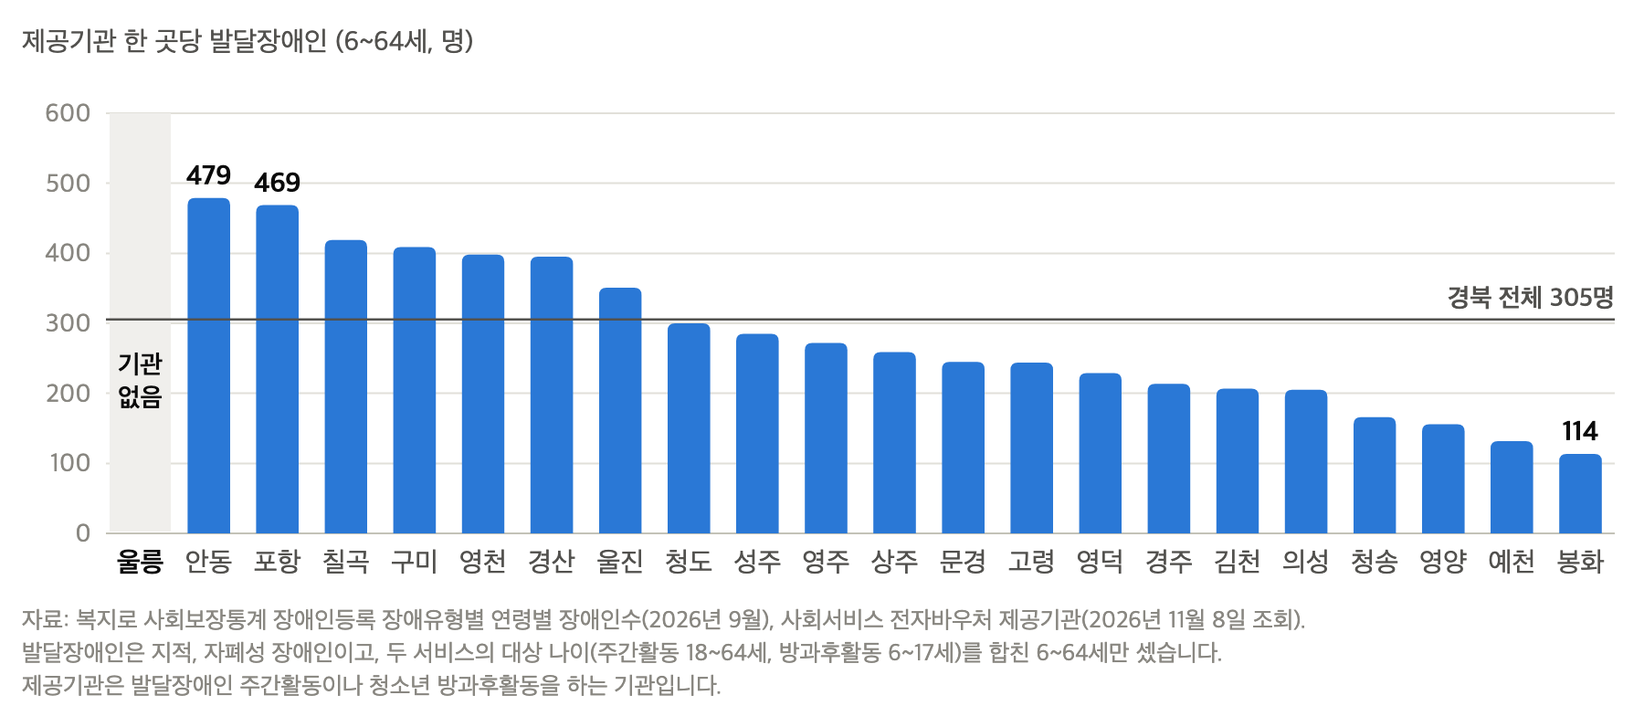
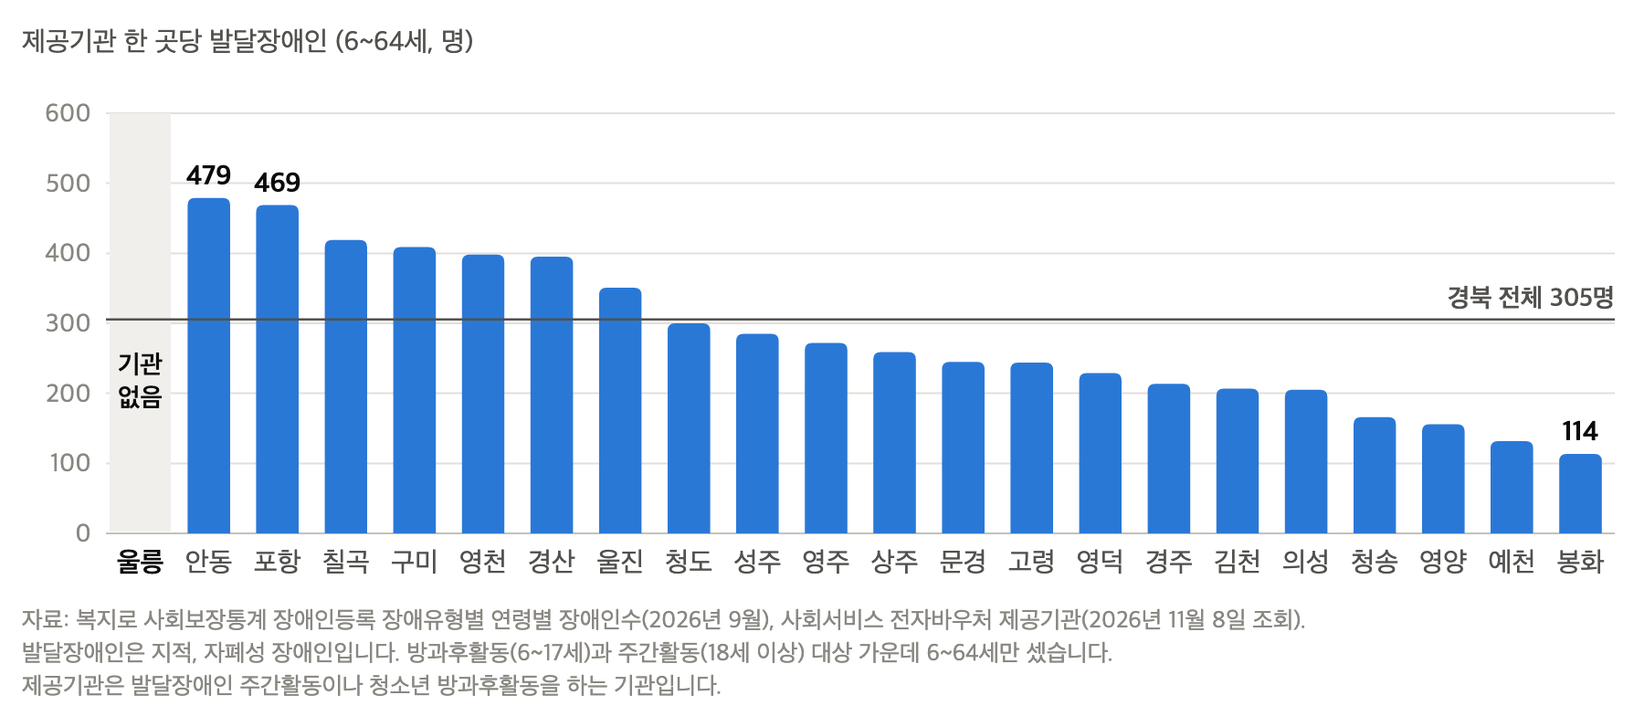
그림 1 각주, 그림 2 라벨, README 용어 고침
- 그림 1 각주: 주간활동 대상 나이를 '18~64세' 에서 '18세 이상' 으로 고쳤다.
  65세 연령 상한은 폐지됐고, 나눌 수는 그대로 6~64세다
  (65세 이상은 수요를 부풀리지 않으려고 뺐다).
- 그림 2 와 README: '장애인 주간보호시설' 을 사회복지시설정보서비스 API 의
  종류 이름 '장애인 주간이용시설' 로 바꿨다.
- 숫자와 계산은 바뀌지 않았다 (그림 3 과 out/tables 는 그대로).

Changed region(s): [[0.1867, 0.8744, 0.7467, 0.9347]]

diff --git a/out/fig/html/fig2_system.html b/out/fig/html/fig2_system.html
@@ -1,1 +1,1 @@
-<!doctype html><html lang="ko"><head><meta charset="utf-8"><title>fig2_system</title><style>html,body{margin:0;padding:0;background:#ffffff}svg{display:block}</style></head><body><svg xmlns="http://www.w3.org/2000/svg" width="900" height="414" viewBox="0 0 900 414" font-family='"Apple SD Gothic Neo", "Malgun Gothic", sans-serif' style="font-variant-numeric: tabular-nums"><rect width="900" height="414" fill="#ffffff"/><g transform="translate(12,12)"><defs><marker id="head" viewBox="0 0 10 10" refX="8" refY="5" markerWidth="7" markerHeight="7" orient="auto-start-reverse"><path d="M0,0 L10,5 L0,10 Z" fill="#52514e"/></marker></defs><text x="0.0" y="18.0" font-size="16" fill="#0b0b0b" text-anchor="start" font-weight="700" >공개 사회보장 데이터</text><rect x="0.5" y="42" width="196" height="346" rx="8" fill="#f7f7f5" stroke="#e1e0d9"/><text x="14.0" y="76.0" font-size="15" fill="#0b0b0b" text-anchor="start" font-weight="700" >수요</text><text x="14.0" y="103.0" font-size="14.5" fill="#52514e" text-anchor="start" font-weight="400" >연령별 등록장애인 (복지로)</text><text x="14.0" y="130.0" font-size="14.5" fill="#52514e" text-anchor="start" font-weight="400" >시군구별 수급권자</text><text x="14.0" y="157.0" font-size="14.5" fill="#52514e" text-anchor="start" font-weight="400" >주민등록 인구</text><text x="14.0" y="210.0" font-size="15" fill="#0b0b0b" text-anchor="start" font-weight="700" >공급</text><text x="14.0" y="237.0" font-size="14.5" fill="#52514e" text-anchor="start" font-weight="400" >지자체 복지사업 (API)</text><text x="14.0" y="264.0" font-size="14.5" fill="#52514e" text-anchor="start" font-weight="400" >사회서비스 제공기관 (API)</text><text x="14.0" y="291.0" font-size="14.5" fill="#52514e" text-anchor="start" font-weight="400" >사회복지시설 (API)</text><text x="14.0" y="318.0" font-size="14.5" fill="#52514e" text-anchor="start" font-weight="400" >장애인 주간보호시설</text><text x="14.0" y="372.0" font-size="13.5" fill="#0b0b0b" text-anchor="start" font-weight="600" >시군구 단위로 결합</text><text x="230.0" y="18.0" font-size="16" fill="#0b0b0b" text-anchor="start" font-weight="700" >AI 분석 4단계</text><rect x="230.5" y="42.0" width="282" height="76.0" rx="8" fill="#f7f7f5" stroke="#e1e0d9"/><circle cx="258" cy="80.0" r="14" fill="#2a78d6"/><text x="258.0" y="85.5" font-size="15" fill="#ffffff" text-anchor="middle" font-weight="700" >1</text><text x="284.0" y="75.0" font-size="16" fill="#0b0b0b" text-anchor="start" font-weight="700" >사업 정리</text><text x="284.0" y="98.0" font-size="13.5" fill="#52514e" text-anchor="start" font-weight="400" >LLM 정보 추출, 같은 기관 묶기</text><line x1="258" y1="119.0" x2="258" y2="131.0" stroke="#52514e" stroke-width="2" marker-end="url(#head)"/><rect x="230.5" y="132.0" width="282" height="76.0" rx="8" fill="#f7f7f5" stroke="#e1e0d9"/><circle cx="258" cy="170.0" r="14" fill="#2a78d6"/><text x="258.0" y="175.5" font-size="15" fill="#ffffff" text-anchor="middle" font-weight="700" >2</text><text x="284.0" y="165.0" font-size="16" fill="#0b0b0b" text-anchor="start" font-weight="700" >쌍둥이 시군구</text><text x="284.0" y="188.0" font-size="13.5" fill="#52514e" text-anchor="start" font-weight="400" >인구, 나이 구조, 수급률 7개 지표</text><line x1="258" y1="209.0" x2="258" y2="221.0" stroke="#52514e" stroke-width="2" marker-end="url(#head)"/><rect x="230.5" y="222.0" width="282" height="76.0" rx="8" fill="#f7f7f5" stroke="#e1e0d9"/><circle cx="258" cy="260.0" r="14" fill="#2a78d6"/><text x="258.0" y="265.5" font-size="15" fill="#ffffff" text-anchor="middle" font-weight="700" >3</text><text x="284.0" y="255.0" font-size="16" fill="#0b0b0b" text-anchor="start" font-weight="700" >공백 점수</text><text x="284.0" y="278.0" font-size="13.5" fill="#52514e" text-anchor="start" font-weight="400" >수요 대비 공급을 쌍둥이와 비교</text><line x1="258" y1="299.0" x2="258" y2="311.0" stroke="#52514e" stroke-width="2" marker-end="url(#head)"/><rect x="230.5" y="312.0" width="282" height="76.0" rx="8" fill="#f7f7f5" stroke="#e1e0d9"/><circle cx="258" cy="350.0" r="14" fill="#2a78d6"/><text x="258.0" y="355.5" font-size="15" fill="#ffffff" text-anchor="middle" font-weight="700" >4</text><text x="284.0" y="345.0" font-size="16" fill="#0b0b0b" text-anchor="start" font-weight="700" >사업 설계 에이전트</text><text x="284.0" y="368.0" font-size="13.5" fill="#52514e" text-anchor="start" font-weight="400" >RAG, 근거 붙은 사업계획 초안</text><line x1="200" y1="215.0" x2="224" y2="215.0" stroke="#52514e" stroke-width="2" marker-end="url(#head)"/><line x1="516" y1="215.0" x2="540" y2="215.0" stroke="#52514e" stroke-width="2" marker-end="url(#head)"/><text x="548.0" y="18.0" font-size="16" fill="#0b0b0b" text-anchor="start" font-weight="700" >담당자 화면 (경북 시범 결과)</text><rect x="614" y="42" width="29" height="29" rx="4" fill="#86b6ef"/><text x="628.5" y="61.0" font-size="12" fill="#0b0b0b" text-anchor="middle" font-weight="600" >영주</text><rect x="647" y="42" width="29" height="29" rx="4" fill="#86b6ef"/><text x="661.5" y="61.0" font-size="12" fill="#0b0b0b" text-anchor="middle" font-weight="600" >봉화</text><rect x="680" y="42" width="29" height="29" rx="4" fill="#3987e5"/><text x="694.5" y="61.0" font-size="12" fill="#ffffff" text-anchor="middle" font-weight="600" >울진</text><rect x="548" y="75" width="29" height="29" rx="4" fill="#86b6ef"/><text x="562.5" y="94.0" font-size="12" fill="#0b0b0b" text-anchor="middle" font-weight="600" >문경</text><rect x="581" y="75" width="29" height="29" rx="4" fill="#86b6ef"/><text x="595.5" y="94.0" font-size="12" fill="#0b0b0b" text-anchor="middle" font-weight="600" >예천</text><rect x="614" y="75" width="29" height="29" rx="4" fill="#1c5cab"/><text x="628.5" y="94.0" font-size="12" fill="#ffffff" text-anchor="middle" font-weight="600" >안동</text><rect x="647" y="75" width="29" height="29" rx="4" fill="#3987e5"/><text x="661.5" y="94.0" font-size="12" fill="#ffffff" text-anchor="middle" font-weight="600" >영양</text><rect x="548" y="108" width="29" height="29" rx="4" fill="#86b6ef"/><text x="562.5" y="127.0" font-size="12" fill="#0b0b0b" text-anchor="middle" font-weight="600" >상주</text><rect x="614" y="108" width="29" height="29" rx="4" fill="#86b6ef"/><text x="628.5" y="127.0" font-size="12" fill="#0b0b0b" text-anchor="middle" font-weight="600" >의성</text><rect x="647" y="108" width="29" height="29" rx="4" fill="#86b6ef"/><text x="661.5" y="127.0" font-size="12" fill="#0b0b0b" text-anchor="middle" font-weight="600" >청송</text><rect x="680" y="108" width="29" height="29" rx="4" fill="#86b6ef"/><text x="694.5" y="127.0" font-size="12" fill="#0b0b0b" text-anchor="middle" font-weight="600" >영덕</text><rect x="548" y="141" width="29" height="29" rx="4" fill="#86b6ef"/><text x="562.5" y="160.0" font-size="12" fill="#0b0b0b" text-anchor="middle" font-weight="600" >김천</text><rect x="581" y="141" width="29" height="29" rx="4" fill="#86b6ef"/><text x="595.5" y="160.0" font-size="12" fill="#0b0b0b" text-anchor="middle" font-weight="600" >구미</text><rect x="680" y="141" width="29" height="29" rx="4" fill="#3987e5"/><text x="694.5" y="160.0" font-size="12" fill="#ffffff" text-anchor="middle" font-weight="600" >포항</text><rect x="548" y="174" width="29" height="29" rx="4" fill="#3987e5"/><text x="562.5" y="193.0" font-size="12" fill="#ffffff" text-anchor="middle" font-weight="600" >성주</text><rect x="581" y="174" width="29" height="29" rx="4" fill="#3987e5"/><text x="595.5" y="193.0" font-size="12" fill="#ffffff" text-anchor="middle" font-weight="600" >칠곡</text><rect x="647" y="174" width="29" height="29" rx="4" fill="#3987e5"/><text x="661.5" y="193.0" font-size="12" fill="#ffffff" text-anchor="middle" font-weight="600" >영천</text><rect x="680" y="174" width="29" height="29" rx="4" fill="#86b6ef"/><text x="694.5" y="193.0" font-size="12" fill="#0b0b0b" text-anchor="middle" font-weight="600" >경주</text><rect x="548" y="207" width="29" height="29" rx="4" fill="#86b6ef"/><text x="562.5" y="226.0" font-size="12" fill="#0b0b0b" text-anchor="middle" font-weight="600" >고령</text><rect x="614" y="207" width="29" height="29" rx="4" fill="#86b6ef"/><text x="628.5" y="226.0" font-size="12" fill="#0b0b0b" text-anchor="middle" font-weight="600" >경산</text><rect x="614" y="240" width="29" height="29" rx="4" fill="#3987e5"/><text x="628.5" y="259.0" font-size="12" fill="#ffffff" text-anchor="middle" font-weight="600" >청도</text><rect x="721" y="42" width="29" height="29" rx="4" fill="#0d366b"/><text x="735.5" y="61.0" font-size="12" fill="#ffffff" text-anchor="middle" font-weight="600" >울릉</text><rect x="614" y="174" width="29" height="29" rx="4" fill="#f0efec"/><text x="628.5" y="193.0" font-size="12" fill="#898781" text-anchor="middle" font-weight="600" >대구</text><text x="768.0" y="55.0" font-size="13.5" fill="#0b0b0b" text-anchor="start" font-weight="700" >공백 점수</text><rect x="768" y="68" width="15" height="15" rx="3" fill="#86b6ef"/><text x="789.0" y="80.5" font-size="13" fill="#52514e" text-anchor="start" font-weight="400" >0.8 이상</text><rect x="768" y="93" width="15" height="15" rx="3" fill="#3987e5"/><text x="789.0" y="105.5" font-size="13" fill="#52514e" text-anchor="start" font-weight="400" >0.5~0.8</text><rect x="768" y="118" width="15" height="15" rx="3" fill="#1c5cab"/><text x="789.0" y="130.5" font-size="13" fill="#52514e" text-anchor="start" font-weight="400" >0.5 미만</text><rect x="768" y="143" width="15" height="15" rx="3" fill="#0d366b"/><text x="789.0" y="155.5" font-size="13" fill="#52514e" text-anchor="start" font-weight="400" >기관 없음</text><text x="768.0" y="182.0" font-size="12.5" fill="#898781" text-anchor="start" font-weight="400" >1보다 작을수록</text><text x="768.0" y="199.0" font-size="12.5" fill="#898781" text-anchor="start" font-weight="400" >닮은 지역보다</text><text x="768.0" y="216.0" font-size="12.5" fill="#898781" text-anchor="start" font-weight="400" >공급이 적음</text><rect x="548.5" y="281" width="327" height="107" rx="8" fill="#f7f7f5" stroke="#e1e0d9"/><text x="562.0" y="304.0" font-size="13.5" fill="#0b0b0b" text-anchor="start" font-weight="700" >사업계획 초안: 안동시 주간활동 기관 확충</text><text x="562.0" y="324.0" font-size="13.5" fill="#52514e" text-anchor="start" font-weight="400" >기관 한 곳당 발달장애인 479명, 공백 점수 0.45</text><text x="562.0" y="344.0" font-size="13.5" fill="#52514e" text-anchor="start" font-weight="400" >참고 사업, 대상자 수, 예산 추정, 출처와 기준 시점</text></g></svg></body></html>
+<!doctype html><html lang="ko"><head><meta charset="utf-8"><title>fig2_system</title><style>html,body{margin:0;padding:0;background:#ffffff}svg{display:block}</style></head><body><svg xmlns="http://www.w3.org/2000/svg" width="900" height="414" viewBox="0 0 900 414" font-family='"Apple SD Gothic Neo", "Malgun Gothic", sans-serif' style="font-variant-numeric: tabular-nums"><rect width="900" height="414" fill="#ffffff"/><g transform="translate(12,12)"><defs><marker id="head" viewBox="0 0 10 10" refX="8" refY="5" markerWidth="7" markerHeight="7" orient="auto-start-reverse"><path d="M0,0 L10,5 L0,10 Z" fill="#52514e"/></marker></defs><text x="0.0" y="18.0" font-size="16" fill="#0b0b0b" text-anchor="start" font-weight="700" >공개 사회보장 데이터</text><rect x="0.5" y="42" width="196" height="346" rx="8" fill="#f7f7f5" stroke="#e1e0d9"/><text x="14.0" y="76.0" font-size="15" fill="#0b0b0b" text-anchor="start" font-weight="700" >수요</text><text x="14.0" y="103.0" font-size="14.5" fill="#52514e" text-anchor="start" font-weight="400" >연령별 등록장애인 (복지로)</text><text x="14.0" y="130.0" font-size="14.5" fill="#52514e" text-anchor="start" font-weight="400" >시군구별 수급권자</text><text x="14.0" y="157.0" font-size="14.5" fill="#52514e" text-anchor="start" font-weight="400" >주민등록 인구</text><text x="14.0" y="210.0" font-size="15" fill="#0b0b0b" text-anchor="start" font-weight="700" >공급</text><text x="14.0" y="237.0" font-size="14.5" fill="#52514e" text-anchor="start" font-weight="400" >지자체 복지사업 (API)</text><text x="14.0" y="264.0" font-size="14.5" fill="#52514e" text-anchor="start" font-weight="400" >사회서비스 제공기관 (API)</text><text x="14.0" y="291.0" font-size="14.5" fill="#52514e" text-anchor="start" font-weight="400" >사회복지시설 (API)</text><text x="14.0" y="318.0" font-size="14.5" fill="#52514e" text-anchor="start" font-weight="400" >장애인 주간이용시설</text><text x="14.0" y="372.0" font-size="13.5" fill="#0b0b0b" text-anchor="start" font-weight="600" >시군구 단위로 결합</text><text x="230.0" y="18.0" font-size="16" fill="#0b0b0b" text-anchor="start" font-weight="700" >AI 분석 4단계</text><rect x="230.5" y="42.0" width="282" height="76.0" rx="8" fill="#f7f7f5" stroke="#e1e0d9"/><circle cx="258" cy="80.0" r="14" fill="#2a78d6"/><text x="258.0" y="85.5" font-size="15" fill="#ffffff" text-anchor="middle" font-weight="700" >1</text><text x="284.0" y="75.0" font-size="16" fill="#0b0b0b" text-anchor="start" font-weight="700" >사업 정리</text><text x="284.0" y="98.0" font-size="13.5" fill="#52514e" text-anchor="start" font-weight="400" >LLM 정보 추출, 같은 기관 묶기</text><line x1="258" y1="119.0" x2="258" y2="131.0" stroke="#52514e" stroke-width="2" marker-end="url(#head)"/><rect x="230.5" y="132.0" width="282" height="76.0" rx="8" fill="#f7f7f5" stroke="#e1e0d9"/><circle cx="258" cy="170.0" r="14" fill="#2a78d6"/><text x="258.0" y="175.5" font-size="15" fill="#ffffff" text-anchor="middle" font-weight="700" >2</text><text x="284.0" y="165.0" font-size="16" fill="#0b0b0b" text-anchor="start" font-weight="700" >쌍둥이 시군구</text><text x="284.0" y="188.0" font-size="13.5" fill="#52514e" text-anchor="start" font-weight="400" >인구, 나이 구조, 수급률 7개 지표</text><line x1="258" y1="209.0" x2="258" y2="221.0" stroke="#52514e" stroke-width="2" marker-end="url(#head)"/><rect x="230.5" y="222.0" width="282" height="76.0" rx="8" fill="#f7f7f5" stroke="#e1e0d9"/><circle cx="258" cy="260.0" r="14" fill="#2a78d6"/><text x="258.0" y="265.5" font-size="15" fill="#ffffff" text-anchor="middle" font-weight="700" >3</text><text x="284.0" y="255.0" font-size="16" fill="#0b0b0b" text-anchor="start" font-weight="700" >공백 점수</text><text x="284.0" y="278.0" font-size="13.5" fill="#52514e" text-anchor="start" font-weight="400" >수요 대비 공급을 쌍둥이와 비교</text><line x1="258" y1="299.0" x2="258" y2="311.0" stroke="#52514e" stroke-width="2" marker-end="url(#head)"/><rect x="230.5" y="312.0" width="282" height="76.0" rx="8" fill="#f7f7f5" stroke="#e1e0d9"/><circle cx="258" cy="350.0" r="14" fill="#2a78d6"/><text x="258.0" y="355.5" font-size="15" fill="#ffffff" text-anchor="middle" font-weight="700" >4</text><text x="284.0" y="345.0" font-size="16" fill="#0b0b0b" text-anchor="start" font-weight="700" >사업 설계 에이전트</text><text x="284.0" y="368.0" font-size="13.5" fill="#52514e" text-anchor="start" font-weight="400" >RAG, 근거 붙은 사업계획 초안</text><line x1="200" y1="215.0" x2="224" y2="215.0" stroke="#52514e" stroke-width="2" marker-end="url(#head)"/><line x1="516" y1="215.0" x2="540" y2="215.0" stroke="#52514e" stroke-width="2" marker-end="url(#head)"/><text x="548.0" y="18.0" font-size="16" fill="#0b0b0b" text-anchor="start" font-weight="700" >담당자 화면 (경북 시범 결과)</text><rect x="614" y="42" width="29" height="29" rx="4" fill="#86b6ef"/><text x="628.5" y="61.0" font-size="12" fill="#0b0b0b" text-anchor="middle" font-weight="600" >영주</text><rect x="647" y="42" width="29" height="29" rx="4" fill="#86b6ef"/><text x="661.5" y="61.0" font-size="12" fill="#0b0b0b" text-anchor="middle" font-weight="600" >봉화</text><rect x="680" y="42" width="29" height="29" rx="4" fill="#3987e5"/><text x="694.5" y="61.0" font-size="12" fill="#ffffff" text-anchor="middle" font-weight="600" >울진</text><rect x="548" y="75" width="29" height="29" rx="4" fill="#86b6ef"/><text x="562.5" y="94.0" font-size="12" fill="#0b0b0b" text-anchor="middle" font-weight="600" >문경</text><rect x="581" y="75" width="29" height="29" rx="4" fill="#86b6ef"/><text x="595.5" y="94.0" font-size="12" fill="#0b0b0b" text-anchor="middle" font-weight="600" >예천</text><rect x="614" y="75" width="29" height="29" rx="4" fill="#1c5cab"/><text x="628.5" y="94.0" font-size="12" fill="#ffffff" text-anchor="middle" font-weight="600" >안동</text><rect x="647" y="75" width="29" height="29" rx="4" fill="#3987e5"/><text x="661.5" y="94.0" font-size="12" fill="#ffffff" text-anchor="middle" font-weight="600" >영양</text><rect x="548" y="108" width="29" height="29" rx="4" fill="#86b6ef"/><text x="562.5" y="127.0" font-size="12" fill="#0b0b0b" text-anchor="middle" font-weight="600" >상주</text><rect x="614" y="108" width="29" height="29" rx="4" fill="#86b6ef"/><text x="628.5" y="127.0" font-size="12" fill="#0b0b0b" text-anchor="middle" font-weight="600" >의성</text><rect x="647" y="108" width="29" height="29" rx="4" fill="#86b6ef"/><text x="661.5" y="127.0" font-size="12" fill="#0b0b0b" text-anchor="middle" font-weight="600" >청송</text><rect x="680" y="108" width="29" height="29" rx="4" fill="#86b6ef"/><text x="694.5" y="127.0" font-size="12" fill="#0b0b0b" text-anchor="middle" font-weight="600" >영덕</text><rect x="548" y="141" width="29" height="29" rx="4" fill="#86b6ef"/><text x="562.5" y="160.0" font-size="12" fill="#0b0b0b" text-anchor="middle" font-weight="600" >김천</text><rect x="581" y="141" width="29" height="29" rx="4" fill="#86b6ef"/><text x="595.5" y="160.0" font-size="12" fill="#0b0b0b" text-anchor="middle" font-weight="600" >구미</text><rect x="680" y="141" width="29" height="29" rx="4" fill="#3987e5"/><text x="694.5" y="160.0" font-size="12" fill="#ffffff" text-anchor="middle" font-weight="600" >포항</text><rect x="548" y="174" width="29" height="29" rx="4" fill="#3987e5"/><text x="562.5" y="193.0" font-size="12" fill="#ffffff" text-anchor="middle" font-weight="600" >성주</text><rect x="581" y="174" width="29" height="29" rx="4" fill="#3987e5"/><text x="595.5" y="193.0" font-size="12" fill="#ffffff" text-anchor="middle" font-weight="600" >칠곡</text><rect x="647" y="174" width="29" height="29" rx="4" fill="#3987e5"/><text x="661.5" y="193.0" font-size="12" fill="#ffffff" text-anchor="middle" font-weight="600" >영천</text><rect x="680" y="174" width="29" height="29" rx="4" fill="#86b6ef"/><text x="694.5" y="193.0" font-size="12" fill="#0b0b0b" text-anchor="middle" font-weight="600" >경주</text><rect x="548" y="207" width="29" height="29" rx="4" fill="#86b6ef"/><text x="562.5" y="226.0" font-size="12" fill="#0b0b0b" text-anchor="middle" font-weight="600" >고령</text><rect x="614" y="207" width="29" height="29" rx="4" fill="#86b6ef"/><text x="628.5" y="226.0" font-size="12" fill="#0b0b0b" text-anchor="middle" font-weight="600" >경산</text><rect x="614" y="240" width="29" height="29" rx="4" fill="#3987e5"/><text x="628.5" y="259.0" font-size="12" fill="#ffffff" text-anchor="middle" font-weight="600" >청도</text><rect x="721" y="42" width="29" height="29" rx="4" fill="#0d366b"/><text x="735.5" y="61.0" font-size="12" fill="#ffffff" text-anchor="middle" font-weight="600" >울릉</text><rect x="614" y="174" width="29" height="29" rx="4" fill="#f0efec"/><text x="628.5" y="193.0" font-size="12" fill="#898781" text-anchor="middle" font-weight="600" >대구</text><text x="768.0" y="55.0" font-size="13.5" fill="#0b0b0b" text-anchor="start" font-weight="700" >공백 점수</text><rect x="768" y="68" width="15" height="15" rx="3" fill="#86b6ef"/><text x="789.0" y="80.5" font-size="13" fill="#52514e" text-anchor="start" font-weight="400" >0.8 이상</text><rect x="768" y="93" width="15" height="15" rx="3" fill="#3987e5"/><text x="789.0" y="105.5" font-size="13" fill="#52514e" text-anchor="start" font-weight="400" >0.5~0.8</text><rect x="768" y="118" width="15" height="15" rx="3" fill="#1c5cab"/><text x="789.0" y="130.5" font-size="13" fill="#52514e" text-anchor="start" font-weight="400" >0.5 미만</text><rect x="768" y="143" width="15" height="15" rx="3" fill="#0d366b"/><text x="789.0" y="155.5" font-size="13" fill="#52514e" text-anchor="start" font-weight="400" >기관 없음</text><text x="768.0" y="182.0" font-size="12.5" fill="#898781" text-anchor="start" font-weight="400" >1보다 작을수록</text><text x="768.0" y="199.0" font-size="12.5" fill="#898781" text-anchor="start" font-weight="400" >닮은 지역보다</text><text x="768.0" y="216.0" font-size="12.5" fill="#898781" text-anchor="start" font-weight="400" >공급이 적음</text><rect x="548.5" y="281" width="327" height="107" rx="8" fill="#f7f7f5" stroke="#e1e0d9"/><text x="562.0" y="304.0" font-size="13.5" fill="#0b0b0b" text-anchor="start" font-weight="700" >사업계획 초안: 안동시 주간활동 기관 확충</text><text x="562.0" y="324.0" font-size="13.5" fill="#52514e" text-anchor="start" font-weight="400" >기관 한 곳당 발달장애인 479명, 공백 점수 0.45</text><text x="562.0" y="344.0" font-size="13.5" fill="#52514e" text-anchor="start" font-weight="400" >참고 사업, 대상자 수, 예산 추정, 출처와 기준 시점</text></g></svg></body></html>

diff --git a/out/fig/html/fig1_gb_dev_gap.html b/out/fig/html/fig1_gb_dev_gap.html
@@ -1,1 +1,1 @@
-<!doctype html><html lang="ko"><head><meta charset="utf-8"><title>fig1_gb_dev_gap</title><style>html,body{margin:0;padding:0;background:#ffffff}svg{display:block}</style></head><body><svg xmlns="http://www.w3.org/2000/svg" width="900" height="398" viewBox="0 0 900 398" font-family='"Apple SD Gothic Neo", "Malgun Gothic", sans-serif' style="font-variant-numeric: tabular-nums"><rect width="900" height="398" fill="#ffffff"/><g transform="translate(12,12)"><text x="0.0" y="16.0" font-size="15" fill="#52514e" text-anchor="start" font-weight="400" >제공기관 한 곳당 발달장애인 (6~64세, 명)</text><line x1="46" x2="872" y1="280.0" y2="280.0" stroke="#c3c2b7" stroke-width="1"/><text x="38.0" y="285.0" font-size="14" fill="#898781" text-anchor="end" font-weight="400" >0</text><line x1="46" x2="872" y1="241.7" y2="241.7" stroke="#e1e0d9" stroke-width="1"/><text x="38.0" y="246.7" font-size="14" fill="#898781" text-anchor="end" font-weight="400" >100</text><line x1="46" x2="872" y1="203.3" y2="203.3" stroke="#e1e0d9" stroke-width="1"/><text x="38.0" y="208.3" font-size="14" fill="#898781" text-anchor="end" font-weight="400" >200</text><line x1="46" x2="872" y1="165.0" y2="165.0" stroke="#e1e0d9" stroke-width="1"/><text x="38.0" y="170.0" font-size="14" fill="#898781" text-anchor="end" font-weight="400" >300</text><line x1="46" x2="872" y1="126.7" y2="126.7" stroke="#e1e0d9" stroke-width="1"/><text x="38.0" y="131.7" font-size="14" fill="#898781" text-anchor="end" font-weight="400" >400</text><line x1="46" x2="872" y1="88.3" y2="88.3" stroke="#e1e0d9" stroke-width="1"/><text x="38.0" y="93.3" font-size="14" fill="#898781" text-anchor="end" font-weight="400" >500</text><line x1="46" x2="872" y1="50.0" y2="50.0" stroke="#e1e0d9" stroke-width="1"/><text x="38.0" y="55.0" font-size="14" fill="#898781" text-anchor="end" font-weight="400" >600</text><rect x="48.0" y="50.0" width="33.5" height="229.0" fill="#f0efec"/><text x="64.8" y="192.6" font-size="14" fill="#0b0b0b" text-anchor="middle" font-weight="600" >기관</text><text x="64.8" y="210.6" font-size="14" fill="#0b0b0b" text-anchor="middle" font-weight="600" >없음</text><text x="64.8" y="301.0" font-size="15" fill="#0b0b0b" text-anchor="middle" font-weight="600" >울릉</text><path d="M90.7,280.0 V100.4 Q90.7,96.4 94.7,96.4 H110.0 Q114.0,96.4 114.0,100.4 V280.0 Z" fill="#2a78d6"/><text x="102.3" y="89.4" font-size="15" fill="#0b0b0b" text-anchor="middle" font-weight="700" >479</text><text x="102.3" y="301.0" font-size="15" fill="#52514e" text-anchor="middle" font-weight="400" >안동</text><path d="M128.2,280.0 V104.3 Q128.2,100.3 132.2,100.3 H147.5 Q151.5,100.3 151.5,104.3 V280.0 Z" fill="#2a78d6"/><text x="139.9" y="93.3" font-size="15" fill="#0b0b0b" text-anchor="middle" font-weight="700" >469</text><text x="139.9" y="301.0" font-size="15" fill="#52514e" text-anchor="middle" font-weight="400" >포항</text><path d="M165.8,280.0 V123.4 Q165.8,119.4 169.8,119.4 H185.0 Q189.0,119.4 189.0,123.4 V280.0 Z" fill="#2a78d6"/><text x="177.4" y="301.0" font-size="15" fill="#52514e" text-anchor="middle" font-weight="400" >칠곡</text><path d="M203.3,280.0 V127.2 Q203.3,123.2 207.3,123.2 H222.6 Q226.6,123.2 226.6,127.2 V280.0 Z" fill="#2a78d6"/><text x="215.0" y="301.0" font-size="15" fill="#52514e" text-anchor="middle" font-weight="400" >구미</text><path d="M240.9,280.0 V131.4 Q240.9,127.4 244.9,127.4 H260.1 Q264.1,127.4 264.1,131.4 V280.0 Z" fill="#2a78d6"/><text x="252.5" y="301.0" font-size="15" fill="#52514e" text-anchor="middle" font-weight="400" >영천</text><path d="M278.4,280.0 V132.5 Q278.4,128.5 282.4,128.5 H297.7 Q301.7,128.5 301.7,132.5 V280.0 Z" fill="#2a78d6"/><text x="290.0" y="301.0" font-size="15" fill="#52514e" text-anchor="middle" font-weight="400" >경산</text><path d="M316.0,280.0 V149.5 Q316.0,145.5 320.0,145.5 H335.2 Q339.2,145.5 339.2,149.5 V280.0 Z" fill="#2a78d6"/><text x="327.6" y="301.0" font-size="15" fill="#52514e" text-anchor="middle" font-weight="400" >울진</text><path d="M353.5,280.0 V169.0 Q353.5,165.0 357.5,165.0 H372.8 Q376.8,165.0 376.8,169.0 V280.0 Z" fill="#2a78d6"/><text x="365.1" y="301.0" font-size="15" fill="#52514e" text-anchor="middle" font-weight="400" >청도</text><path d="M391.0,280.0 V174.8 Q391.0,170.8 395.0,170.8 H410.3 Q414.3,170.8 414.3,174.8 V280.0 Z" fill="#2a78d6"/><text x="402.7" y="301.0" font-size="15" fill="#52514e" text-anchor="middle" font-weight="400" >성주</text><path d="M428.6,280.0 V179.8 Q428.6,175.8 432.6,175.8 H447.9 Q451.9,175.8 451.9,179.8 V280.0 Z" fill="#2a78d6"/><text x="440.2" y="301.0" font-size="15" fill="#52514e" text-anchor="middle" font-weight="400" >영주</text><path d="M466.1,280.0 V184.8 Q466.1,180.8 470.1,180.8 H485.4 Q489.4,180.8 489.4,184.8 V280.0 Z" fill="#2a78d6"/><text x="477.8" y="301.0" font-size="15" fill="#52514e" text-anchor="middle" font-weight="400" >상주</text><path d="M503.7,280.0 V190.1 Q503.7,186.1 507.7,186.1 H523.0 Q527.0,186.1 527.0,190.1 V280.0 Z" fill="#2a78d6"/><text x="515.3" y="301.0" font-size="15" fill="#52514e" text-anchor="middle" font-weight="400" >문경</text><path d="M541.2,280.0 V190.5 Q541.2,186.5 545.2,186.5 H560.5 Q564.5,186.5 564.5,190.5 V280.0 Z" fill="#2a78d6"/><text x="552.9" y="301.0" font-size="15" fill="#52514e" text-anchor="middle" font-weight="400" >고령</text><path d="M578.8,280.0 V196.2 Q578.8,192.2 582.8,192.2 H598.0 Q602.0,192.2 602.0,196.2 V280.0 Z" fill="#2a78d6"/><text x="590.4" y="301.0" font-size="15" fill="#52514e" text-anchor="middle" font-weight="400" >영덕</text><path d="M616.3,280.0 V202.1 Q616.3,198.1 620.3,198.1 H635.6 Q639.6,198.1 639.6,202.1 V280.0 Z" fill="#2a78d6"/><text x="628.0" y="301.0" font-size="15" fill="#52514e" text-anchor="middle" font-weight="400" >경주</text><path d="M653.9,280.0 V204.7 Q653.9,200.7 657.9,200.7 H673.1 Q677.1,200.7 677.1,204.7 V280.0 Z" fill="#2a78d6"/><text x="665.5" y="301.0" font-size="15" fill="#52514e" text-anchor="middle" font-weight="400" >김천</text><path d="M691.4,280.0 V205.4 Q691.4,201.4 695.4,201.4 H710.7 Q714.7,201.4 714.7,205.4 V280.0 Z" fill="#2a78d6"/><text x="703.0" y="301.0" font-size="15" fill="#52514e" text-anchor="middle" font-weight="400" >의성</text><path d="M729.0,280.0 V220.4 Q729.0,216.4 733.0,216.4 H748.2 Q752.2,216.4 752.2,220.4 V280.0 Z" fill="#2a78d6"/><text x="740.6" y="301.0" font-size="15" fill="#52514e" text-anchor="middle" font-weight="400" >청송</text><path d="M766.5,280.0 V224.2 Q766.5,220.2 770.5,220.2 H785.8 Q789.8,220.2 789.8,224.2 V280.0 Z" fill="#2a78d6"/><text x="778.1" y="301.0" font-size="15" fill="#52514e" text-anchor="middle" font-weight="400" >영양</text><path d="M804.0,280.0 V233.5 Q804.0,229.5 808.0,229.5 H823.3 Q827.3,229.5 827.3,233.5 V280.0 Z" fill="#2a78d6"/><text x="815.7" y="301.0" font-size="15" fill="#52514e" text-anchor="middle" font-weight="400" >예천</text><path d="M841.6,280.0 V240.5 Q841.6,236.5 845.6,236.5 H860.9 Q864.9,236.5 864.9,240.5 V280.0 Z" fill="#2a78d6"/><text x="853.2" y="229.5" font-size="15" fill="#0b0b0b" text-anchor="middle" font-weight="700" >114</text><text x="853.2" y="301.0" font-size="15" fill="#52514e" text-anchor="middle" font-weight="400" >봉화</text><line x1="46" x2="872" y1="162.9" y2="162.9" stroke="#52514e" stroke-width="1.2"/><text x="872.0" y="155.9" font-size="14" fill="#52514e" text-anchor="end" font-weight="600" stroke="#ffffff" stroke-width="4" paint-order="stroke">경북 전체 305명</text><text x="0.0" y="332.0" font-size="13" fill="#898781" text-anchor="start" font-weight="400" >자료: 복지로 사회보장통계 장애인등록 장애유형별 연령별 장애인수(2026년 9월), 사회서비스 전자바우처 제공기관(2026년 11월 8일 조회).</text><text x="0.0" y="350.0" font-size="13" fill="#898781" text-anchor="start" font-weight="400" >발달장애인은 지적, 자폐성 장애인이고, 두 서비스의 대상 나이(주간활동 18~64세, 방과후활동 6~17세)를 합친 6~64세만 셌습니다.</text><text x="0.0" y="368.0" font-size="13" fill="#898781" text-anchor="start" font-weight="400" >제공기관은 발달장애인 주간활동이나 청소년 방과후활동을 하는 기관입니다.</text></g></svg></body></html>
+<!doctype html><html lang="ko"><head><meta charset="utf-8"><title>fig1_gb_dev_gap</title><style>html,body{margin:0;padding:0;background:#ffffff}svg{display:block}</style></head><body><svg xmlns="http://www.w3.org/2000/svg" width="900" height="398" viewBox="0 0 900 398" font-family='"Apple SD Gothic Neo", "Malgun Gothic", sans-serif' style="font-variant-numeric: tabular-nums"><rect width="900" height="398" fill="#ffffff"/><g transform="translate(12,12)"><text x="0.0" y="16.0" font-size="15" fill="#52514e" text-anchor="start" font-weight="400" >제공기관 한 곳당 발달장애인 (6~64세, 명)</text><line x1="46" x2="872" y1="280.0" y2="280.0" stroke="#c3c2b7" stroke-width="1"/><text x="38.0" y="285.0" font-size="14" fill="#898781" text-anchor="end" font-weight="400" >0</text><line x1="46" x2="872" y1="241.7" y2="241.7" stroke="#e1e0d9" stroke-width="1"/><text x="38.0" y="246.7" font-size="14" fill="#898781" text-anchor="end" font-weight="400" >100</text><line x1="46" x2="872" y1="203.3" y2="203.3" stroke="#e1e0d9" stroke-width="1"/><text x="38.0" y="208.3" font-size="14" fill="#898781" text-anchor="end" font-weight="400" >200</text><line x1="46" x2="872" y1="165.0" y2="165.0" stroke="#e1e0d9" stroke-width="1"/><text x="38.0" y="170.0" font-size="14" fill="#898781" text-anchor="end" font-weight="400" >300</text><line x1="46" x2="872" y1="126.7" y2="126.7" stroke="#e1e0d9" stroke-width="1"/><text x="38.0" y="131.7" font-size="14" fill="#898781" text-anchor="end" font-weight="400" >400</text><line x1="46" x2="872" y1="88.3" y2="88.3" stroke="#e1e0d9" stroke-width="1"/><text x="38.0" y="93.3" font-size="14" fill="#898781" text-anchor="end" font-weight="400" >500</text><line x1="46" x2="872" y1="50.0" y2="50.0" stroke="#e1e0d9" stroke-width="1"/><text x="38.0" y="55.0" font-size="14" fill="#898781" text-anchor="end" font-weight="400" >600</text><rect x="48.0" y="50.0" width="33.5" height="229.0" fill="#f0efec"/><text x="64.8" y="192.6" font-size="14" fill="#0b0b0b" text-anchor="middle" font-weight="600" >기관</text><text x="64.8" y="210.6" font-size="14" fill="#0b0b0b" text-anchor="middle" font-weight="600" >없음</text><text x="64.8" y="301.0" font-size="15" fill="#0b0b0b" text-anchor="middle" font-weight="600" >울릉</text><path d="M90.7,280.0 V100.4 Q90.7,96.4 94.7,96.4 H110.0 Q114.0,96.4 114.0,100.4 V280.0 Z" fill="#2a78d6"/><text x="102.3" y="89.4" font-size="15" fill="#0b0b0b" text-anchor="middle" font-weight="700" >479</text><text x="102.3" y="301.0" font-size="15" fill="#52514e" text-anchor="middle" font-weight="400" >안동</text><path d="M128.2,280.0 V104.3 Q128.2,100.3 132.2,100.3 H147.5 Q151.5,100.3 151.5,104.3 V280.0 Z" fill="#2a78d6"/><text x="139.9" y="93.3" font-size="15" fill="#0b0b0b" text-anchor="middle" font-weight="700" >469</text><text x="139.9" y="301.0" font-size="15" fill="#52514e" text-anchor="middle" font-weight="400" >포항</text><path d="M165.8,280.0 V123.4 Q165.8,119.4 169.8,119.4 H185.0 Q189.0,119.4 189.0,123.4 V280.0 Z" fill="#2a78d6"/><text x="177.4" y="301.0" font-size="15" fill="#52514e" text-anchor="middle" font-weight="400" >칠곡</text><path d="M203.3,280.0 V127.2 Q203.3,123.2 207.3,123.2 H222.6 Q226.6,123.2 226.6,127.2 V280.0 Z" fill="#2a78d6"/><text x="215.0" y="301.0" font-size="15" fill="#52514e" text-anchor="middle" font-weight="400" >구미</text><path d="M240.9,280.0 V131.4 Q240.9,127.4 244.9,127.4 H260.1 Q264.1,127.4 264.1,131.4 V280.0 Z" fill="#2a78d6"/><text x="252.5" y="301.0" font-size="15" fill="#52514e" text-anchor="middle" font-weight="400" >영천</text><path d="M278.4,280.0 V132.5 Q278.4,128.5 282.4,128.5 H297.7 Q301.7,128.5 301.7,132.5 V280.0 Z" fill="#2a78d6"/><text x="290.0" y="301.0" font-size="15" fill="#52514e" text-anchor="middle" font-weight="400" >경산</text><path d="M316.0,280.0 V149.5 Q316.0,145.5 320.0,145.5 H335.2 Q339.2,145.5 339.2,149.5 V280.0 Z" fill="#2a78d6"/><text x="327.6" y="301.0" font-size="15" fill="#52514e" text-anchor="middle" font-weight="400" >울진</text><path d="M353.5,280.0 V169.0 Q353.5,165.0 357.5,165.0 H372.8 Q376.8,165.0 376.8,169.0 V280.0 Z" fill="#2a78d6"/><text x="365.1" y="301.0" font-size="15" fill="#52514e" text-anchor="middle" font-weight="400" >청도</text><path d="M391.0,280.0 V174.8 Q391.0,170.8 395.0,170.8 H410.3 Q414.3,170.8 414.3,174.8 V280.0 Z" fill="#2a78d6"/><text x="402.7" y="301.0" font-size="15" fill="#52514e" text-anchor="middle" font-weight="400" >성주</text><path d="M428.6,280.0 V179.8 Q428.6,175.8 432.6,175.8 H447.9 Q451.9,175.8 451.9,179.8 V280.0 Z" fill="#2a78d6"/><text x="440.2" y="301.0" font-size="15" fill="#52514e" text-anchor="middle" font-weight="400" >영주</text><path d="M466.1,280.0 V184.8 Q466.1,180.8 470.1,180.8 H485.4 Q489.4,180.8 489.4,184.8 V280.0 Z" fill="#2a78d6"/><text x="477.8" y="301.0" font-size="15" fill="#52514e" text-anchor="middle" font-weight="400" >상주</text><path d="M503.7,280.0 V190.1 Q503.7,186.1 507.7,186.1 H523.0 Q527.0,186.1 527.0,190.1 V280.0 Z" fill="#2a78d6"/><text x="515.3" y="301.0" font-size="15" fill="#52514e" text-anchor="middle" font-weight="400" >문경</text><path d="M541.2,280.0 V190.5 Q541.2,186.5 545.2,186.5 H560.5 Q564.5,186.5 564.5,190.5 V280.0 Z" fill="#2a78d6"/><text x="552.9" y="301.0" font-size="15" fill="#52514e" text-anchor="middle" font-weight="400" >고령</text><path d="M578.8,280.0 V196.2 Q578.8,192.2 582.8,192.2 H598.0 Q602.0,192.2 602.0,196.2 V280.0 Z" fill="#2a78d6"/><text x="590.4" y="301.0" font-size="15" fill="#52514e" text-anchor="middle" font-weight="400" >영덕</text><path d="M616.3,280.0 V202.1 Q616.3,198.1 620.3,198.1 H635.6 Q639.6,198.1 639.6,202.1 V280.0 Z" fill="#2a78d6"/><text x="628.0" y="301.0" font-size="15" fill="#52514e" text-anchor="middle" font-weight="400" >경주</text><path d="M653.9,280.0 V204.7 Q653.9,200.7 657.9,200.7 H673.1 Q677.1,200.7 677.1,204.7 V280.0 Z" fill="#2a78d6"/><text x="665.5" y="301.0" font-size="15" fill="#52514e" text-anchor="middle" font-weight="400" >김천</text><path d="M691.4,280.0 V205.4 Q691.4,201.4 695.4,201.4 H710.7 Q714.7,201.4 714.7,205.4 V280.0 Z" fill="#2a78d6"/><text x="703.0" y="301.0" font-size="15" fill="#52514e" text-anchor="middle" font-weight="400" >의성</text><path d="M729.0,280.0 V220.4 Q729.0,216.4 733.0,216.4 H748.2 Q752.2,216.4 752.2,220.4 V280.0 Z" fill="#2a78d6"/><text x="740.6" y="301.0" font-size="15" fill="#52514e" text-anchor="middle" font-weight="400" >청송</text><path d="M766.5,280.0 V224.2 Q766.5,220.2 770.5,220.2 H785.8 Q789.8,220.2 789.8,224.2 V280.0 Z" fill="#2a78d6"/><text x="778.1" y="301.0" font-size="15" fill="#52514e" text-anchor="middle" font-weight="400" >영양</text><path d="M804.0,280.0 V233.5 Q804.0,229.5 808.0,229.5 H823.3 Q827.3,229.5 827.3,233.5 V280.0 Z" fill="#2a78d6"/><text x="815.7" y="301.0" font-size="15" fill="#52514e" text-anchor="middle" font-weight="400" >예천</text><path d="M841.6,280.0 V240.5 Q841.6,236.5 845.6,236.5 H860.9 Q864.9,236.5 864.9,240.5 V280.0 Z" fill="#2a78d6"/><text x="853.2" y="229.5" font-size="15" fill="#0b0b0b" text-anchor="middle" font-weight="700" >114</text><text x="853.2" y="301.0" font-size="15" fill="#52514e" text-anchor="middle" font-weight="400" >봉화</text><line x1="46" x2="872" y1="162.9" y2="162.9" stroke="#52514e" stroke-width="1.2"/><text x="872.0" y="155.9" font-size="14" fill="#52514e" text-anchor="end" font-weight="600" stroke="#ffffff" stroke-width="4" paint-order="stroke">경북 전체 305명</text><text x="0.0" y="332.0" font-size="13" fill="#898781" text-anchor="start" font-weight="400" >자료: 복지로 사회보장통계 장애인등록 장애유형별 연령별 장애인수(2026년 9월), 사회서비스 전자바우처 제공기관(2026년 11월 8일 조회).</text><text x="0.0" y="350.0" font-size="13" fill="#898781" text-anchor="start" font-weight="400" >발달장애인은 지적, 자폐성 장애인입니다. 방과후활동(6~17세)과 주간활동(18세 이상) 대상 가운데 6~64세만 셌습니다.</text><text x="0.0" y="368.0" font-size="13" fill="#898781" text-anchor="start" font-weight="400" >제공기관은 발달장애인 주간활동이나 청소년 방과후활동을 하는 기관입니다.</text></g></svg></body></html>

diff --git a/scripts/figures.py b/scripts/figures.py
@@ -127,7 +127,7 @@ def fig1():
     out.append(text(IW - right, y(avg) - 7, f"경북 전체 {r0(avg):,}명", 14, INK2, "end", 600,
                     f'stroke="{SURFACE}" stroke-width="4" paint-order="stroke"'))
     notes = ["자료: 복지로 사회보장통계 장애인등록 장애유형별 연령별 장애인수(2026년 9월), 사회서비스 전자바우처 제공기관(2026년 11월 8일 조회).",
-             "발달장애인은 지적, 자폐성 장애인이고, 두 서비스의 대상 나이(주간활동 18~64세, 방과후활동 6~17세)를 합친 6~64세만 셌습니다.",
+             "발달장애인은 지적, 자폐성 장애인입니다. 방과후활동(6~17세)과 주간활동(18세 이상) 대상 가운데 6~64세만 셌습니다.",
              "제공기관은 발달장애인 주간활동이나 청소년 방과후활동을 하는 기관입니다."]
     for k, s in enumerate(notes):
         out.append(text(0, base + 52 + k * 18, s, 13, MUTED))
@@ -233,7 +233,7 @@ def fig2(plan="안동시"):
     out.append(text(ax, 18, "공개 사회보장 데이터", 16, INK, "start", 700))
     out.append(f'<rect x="{ax + 0.5}" y="{top}" width="{aw}" height="{bot - top}" rx="8" fill="{PANEL}" stroke="{GRID}"/>')
     groups = [("수요", ["연령별 등록장애인 (복지로)", "시군구별 수급권자", "주민등록 인구"]),
-              ("공급", ["지자체 복지사업 (API)", "사회서비스 제공기관 (API)", "사회복지시설 (API)", "장애인 주간보호시설"])]
+              ("공급", ["지자체 복지사업 (API)", "사회서비스 제공기관 (API)", "사회복지시설 (API)", "장애인 주간이용시설"])]
     yy = top + 34
     for title, items in groups:
         out.append(text(ax + 14, yy, title, 15, INK, "start", 700))
